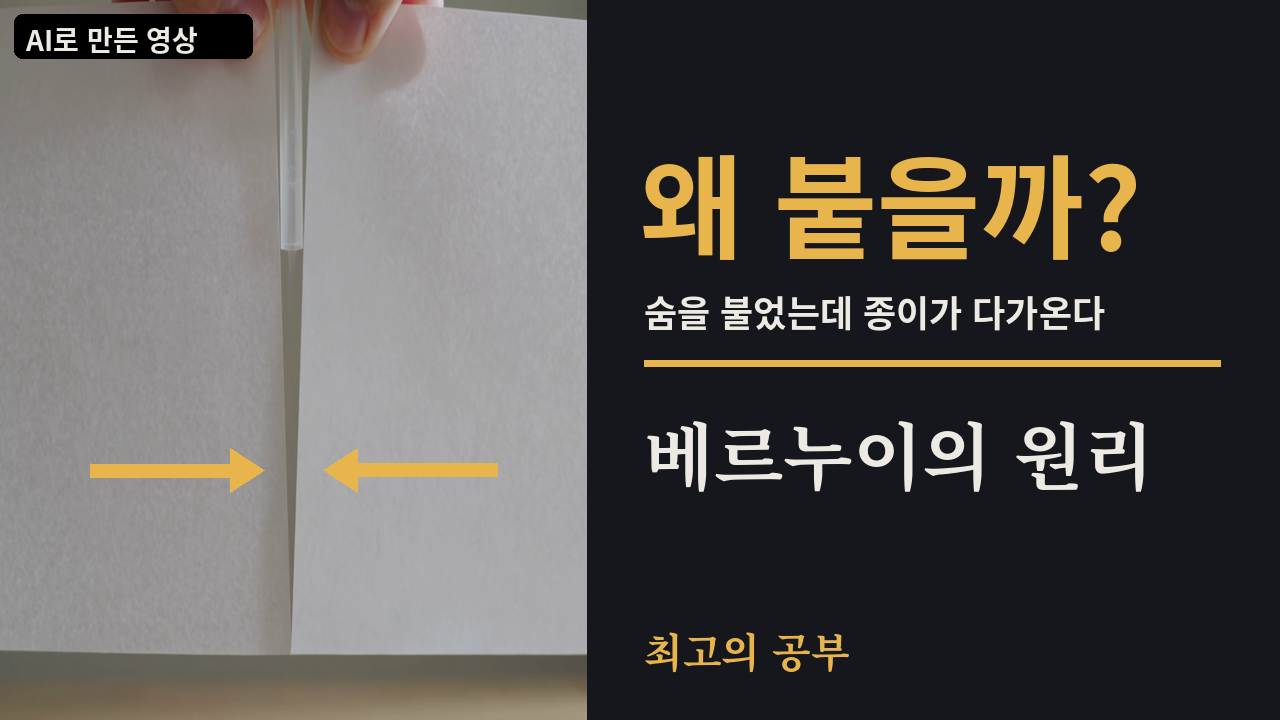
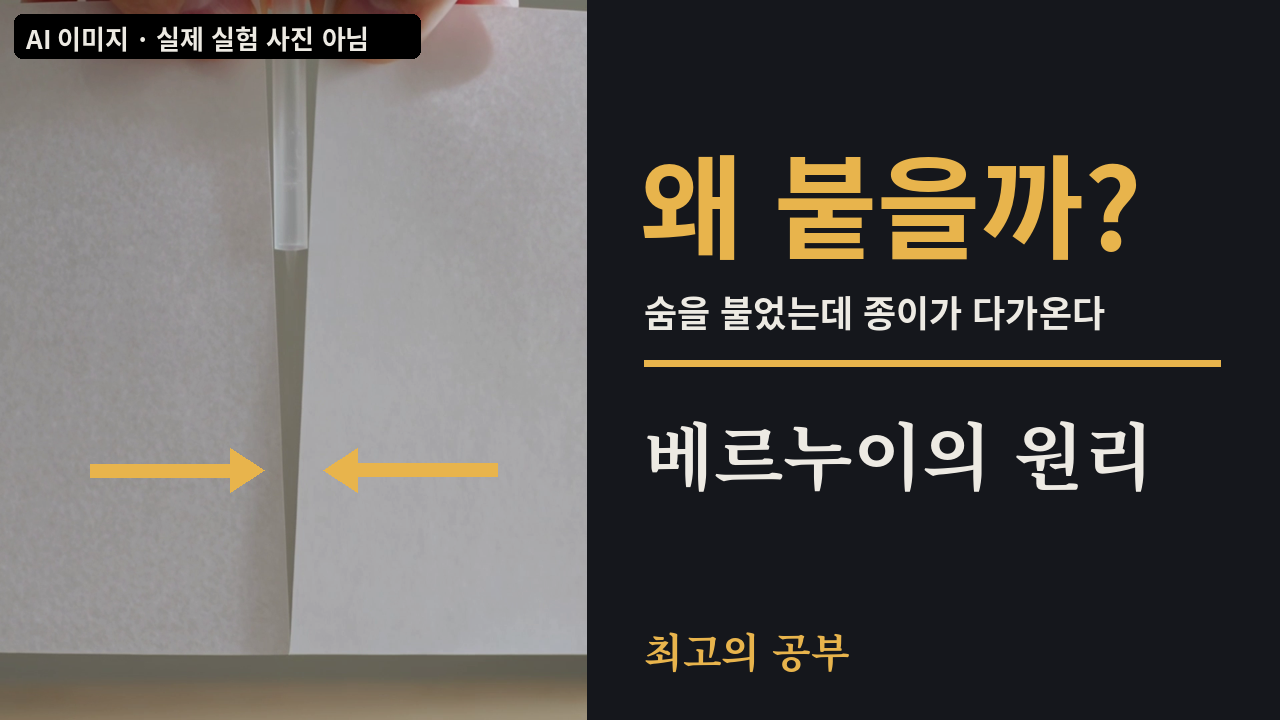
베르누이: 법무 수정 확인 후속 (구성표 5·8·13 설명, sources watermark, 썸네일 비율·표시 문구), DB 승인대기 기록
Claude-Session: https://claude.ai/code/session_016k71QahVh1EEyYy3nrCXw2

Changed region(s): [[0.0312, 0.0, 0.4688, 0.6722], [0.0, 0.8861, 0.0625, 0.9167]]

diff --git a/episodes/2026-10-29_bernoulli-principle/thumbnail.py b/episodes/2026-10-29_bernoulli-principle/thumbnail.py
@@ -18,7 +18,7 @@ GOLD, INK, BG_COLOR = "#E8B44C", "#EDEAE3", "#15171C"
 subprocess.run(["ffmpeg", "-v", "error", "-y", "-ss", "7.0", "-i", str(EP / "assets/media/paper_sheets_blow.mp4"),
                 "-frames:v", "1", str(BG)], check=True)
 
-photo = Image.open(BG).convert("RGB").crop((300, 0, 1620, 1080)).resize((587, 480 + 240))
+photo = Image.open(BG).convert("RGB").crop((520, 0, 1400, 1080)).resize((587, 720))
 photo = ImageEnhance.Brightness(photo).enhance(0.85)
 im = Image.new("RGB", (1280, 720), BG_COLOR)
 im.paste(photo, (0, 0))
@@ -28,8 +28,8 @@ for x0, x1 in ((90, 230), (497, 357)):
     d.line((x0, 470, x1, 470), fill=GOLD, width=14)
     tip = 1 if x1 > x0 else -1
     d.polygon([(x1 + tip * 34, 470), (x1, 448), (x1, 492)], fill=GOLD)
-d.rounded_rectangle((14, 14, 252, 58), radius=8, fill=(0, 0, 0))
-d.text((26, 18), "AI로 만든 영상", font=ImageFont.truetype(SANS, 28, index=KR), fill=INK)
+d.rounded_rectangle((14, 14, 420, 58), radius=8, fill=(0, 0, 0))
+d.text((26, 18), "AI 이미지 · 실제 실험 사진 아님", font=ImageFont.truetype(SANS, 26, index=KR), fill=INK)
 
 d.text((640, 120), "왜 붙을까?", font=ImageFont.truetype(SANS, 112, index=KR), fill=GOLD)
 d.text((644, 285), "숨을 불었는데 종이가 다가온다", font=ImageFont.truetype(SANS, 36, index=KR), fill=INK)

diff --git a/scripts/fetch_media.py b/scripts/fetch_media.py
@@ -118,6 +118,7 @@ def main():
                                 "job_id": m.get("job_id"), "url": m.get("url"), "service": m.get("service"),
                                 "plan": m.get("plan"), "generated_at": m.get("generated_at"),
                                 "physics_check": m.get("physics_check"),
+                                "watermark": m.get("watermark"),
                                 "author": "최고의 공부 (AI 도구 사용)", "license": "생성 서비스 약관 (법무팀 확인)", "ai": True})
                 continue
             if mid in old and (ep / old[mid].get("file", "-")).exists():

diff --git a/episodes/2026-10-29_bernoulli-principle/legal_review.md b/episodes/2026-10-29_bernoulli-principle/legal_review.md
@@ -209,3 +209,39 @@
 - Higgsfield 가격 안내 https://higgsfield.ai/blog/higgsfield-pricing-explained , 제3자 정리 https://creatify.ai/blog/higgsfield-pricing-(2026)-plans-and-what-you-ll-actually-pay
 - ElevenLabs 공지 기간 https://help.elevenlabs.io/hc/en-us/articles/33533163659921-What-is-a-notice-period , 보이스 공유 https://elevenlabs.io/docs/voices/voice-library/sharing , Voice Library 부속 약관 https://elevenlabs.io/vla
 - 틱톡·메타 AI 표시(2차 자료) https://www.socialmediatoday.com/news/tiktok-officially-launches-new-in-stream-labels-for-ai-generated-content/694154/ , https://www.cinerads.com/blog/ai-ad-disclosure-requirements , https://openart.ai/blog/creators-guide-ai-disclosure-2026/
+
+### 수정 확인
+최종 판정: **조건부 통과**
+
+영상 파일(`final.mp4`, `shorts_vertical.mp4`, `shorts_square.mp4`)과 썸네일은 **더 고칠 것 없이 그대로 써도 된다.** 남은 조건은 업로드 전에 사용자가 확인해야 하는 권리 사항 3건(아래 2-3)이다. 확인 결과 문제가 없으면 법무팀 재검토 없이 사용자 승인 단계로 넘어간다. 기록 정리 2건(하)은 업로드를 막지 않는다.
+
+확인 자료: `/tmp/.../scratchpad/frames/fix/` 의 main.png(본편 장면 2·7·13), m7end.png(장면 7 끝), s07.png(S07 투명 레이어 3시점), shorts.png(세로 2장·정사각형 2장), m13blur.png(장면 13 동체 확대), `output/thumbnail.png`, `thumbnail.py`, `assets/sources.json`, `03_storyboard.json`, `02_script.md`, `assets/audio/voice_audition/`, `output/` 파일 목록.
+
+| # | 결과 | 확인 내용 |
+|---|---|---|
+| 2-1 | **해결** | 장면 7에 "닫힌 관(벤투리관) 그림" 라벨이 붙은 넓다-좁다-넓은 수평 관, 유리관 2개가 있다. 넓은 곳 물기둥이 높고 좁은 곳 물기둥이 낮다(방향 맞음). '쑥' 흰 선은 좁은 곳 유리관 안의 물기둥 윗면에만 있고, 개울 수면과는 분리되었다. 지갑은 각 유리관 옆에 있고 넓은 곳(파랑 큼·주황 작음)과 좁은 곳(파랑 작음·주황 큼)의 회색(높이)이 같으며, 두 지갑의 총액선이 같은 높이다(m7end). 배경 개울은 dim 0.6으로 분위기 배경에 머문다. 나레이션 "그 위 물기둥은 쑥 낮아집니다"와 화면이 이제 맞는다. 권장(하): s07.png 세 번째 시점에서 두 지갑을 잇는 점선이 비스듬히 그려진다(지갑이 서로 다른 높이에서 등장하는 순간). 끝 화면(m7end)에서는 수평이므로 사실 오류는 아니지만, 다음 편부터 연결선은 두 지갑이 제자리에 놓인 뒤 그린다 |
+| 2-2 | **해결** | 세로형: 헤드라인 아래 두 줄 "실사 화면은 AI로 만든 영상입니다 / 실제 실험·역사 촬영 아님", 정사각형: 자막 아래 한 줄 "AI로 만든 영상 · 실제 실험·역사 촬영 아님", 반투명 바탕, 4개 프레임 모두에서 보인다. 본편에서 내려온 장면별 배지도 그대로다. 권장(하): 세로형 문구는 자막보다 작아 보인다. 위아래 여백이 넉넉하므로 다음 숏폼부터 40~44px로 키운다 |
+| 2-3 | **일부 해결, 사용자 확인 남음** | `sources.json` narration 항목에 plan, plan_since, generated_at, voice_id, voice, model, flow_id, notice_period, beta가 생겼다(미확인 값은 "사용자 확인 필요"로 표시, 적절함). `output/voice_audition.mp3`는 `output/`에서 빠졌고 `assets/audio/voice_audition/comparison.mp3`로 옮겨졌다(`output/`에는 final.mp4, 숏폼 2개, subtitles.srt만 남음). **그러나 `sources.json`에 `"watermark"` 항목이 하나도 없다**(검색 결과 0건, 구성표 `03_storyboard.json`에만 있음). 제작팀 보고와 다르다 → 아래 남은 일 ② |
+| 2-4 | **해결** | 이름 카드 "1700~1782 · 바젤에서 활동"(main.png 왼쪽) |
+| 2-5 | **해결 / 유통팀 몫 남음** | (가) 숏폼 장면 5 시작에 "다니엘 베르누이 / 1700~1782 · 『유체역학』(1738)" 카드. 연도와 책 이름이 리서치와 일치한다. (나) 장면 8 보충 메모는 숏폼 설명란으로 옮기기로 했다 → 유통팀이 숏폼 설명란에 "정확히는 종이의 휘어짐, 공기가 종이 면을 따라 흐르는 효과도 함께 작용합니다."를 넣는다 |
+| 2-6 | **일부 해결** | `media_policy`는 실제와 맞게 고쳐졌다(11클립 생성·8클립 사용·탈락 3개, 장면별 배지, 동체 글자 blur). **그러나 장면 5·8·13 description과 `02_script.md`의 같은 부분은 옛 문구 그대로다**: 장면 5 "압력 = 물이 미는 힘"·넓은 쪽/좁은 쪽 비교(구성표 268행, 대본 34행), 장면 8 "빠르다 → 덜 민다"·"느리다 → 그대로 민다"(구성표 346행, 대본 53행), 장면 13 카드 "빨리 달리는 공기는, 덜 민다"(구성표 478행, 대본 90행). 영상은 이미 바른 문구라 공개물 문제는 아니고 기록 문제다 → 아래 남은 일 ③ |
+| 2-7 | **해결** | 장면 13 동체 글자 자리가 흐림 처리되어 글자를 읽을 수 없다(m13blur, main.png 오른쪽). 흐림 상자의 경계가 확대 화면에서 조금 보이지만 본편 크기에서는 눈에 띄지 않는다. 장면 4 dim 0.55 반영(제작팀 보고 기준, 프레임 미확인). 장면 5 비네트는 하지 않았으나 선택 사항이므로 그대로 둔다 |
+| 길이 | 확인 | 본편 168.4초, 숏폼 58.4초로 바뀌지 않았다는 제작팀 보고. 나레이션·자막은 바뀌지 않았으므로 CER 0% 결과가 그대로 유효하다 |
+
+#### 썸네일 (`output/thumbnail.png`, 1280×720) 판정: **통과**
+- **내용 일치(낚시성 여부):** "왜 붙을까?", "숨을 불었는데 종이가 다가온다", "베르누이의 원리"는 장면 1·8의 내용 그대로다. 양력을 베르누이 하나로 단정하는 문구나 과장 표현이 없다. 통과.
+- **사실관계:** 종이 아래쪽이 안쪽으로 모인 프레임과 안쪽을 가리키는 화살표 두 개는 실제 현상 방향과 맞다(1차 지적 3의 오개념 라벨도 없음). 통과.
+- **AI 표시:** 왼쪽 위 "AI로 만든 영상"(검은 바탕, 28pt)이 있다. 1차 유통팀 전달 사항("AI 장면을 쓰면 작은 AI 표시")을 충족한다. 권장(하): 썸네일은 정지 이미지이고 실제 실험 사진처럼 보이므로 "AI 이미지 · 실제 실험 사진 아님"으로 바꾸면 본편 배지(장면 1 "실제 실험 촬영 아님")와 더 잘 맞는다. 바꾸지 않아도 통과다.
+- **권리:** 배경은 우리가 Higgsfield로 만든 `paper_sheets_blow` 클립의 한 프레임이고, 글꼴은 Noto Sans/Serif CJK(SIL OFL)다. 제3자 사진·로고·실존 인물 얼굴이 없다(손가락 끝만 보임). Higgsfield 상업 이용 조건은 영상과 같이 2-3 ①에 묶인다.
+- 비법무 참고(제작팀): `thumbnail.py`가 1320×1080 영역을 587×720으로 줄이면서 가로가 약 2/3로 눌린다. 종이라 티가 덜 나지만 비율을 맞추려면 자르는 폭을 880px 안팎으로 바꾼다.
+
+#### 업로드 전에 남은 일
+1. **(사용자, 중) 권리 확인 3건** — 2-3의 ①②③ 그대로: ① 2026-10-29 생성 당시 Higgsfield Starter 유료 플랜이 활성이었는지, ② ElevenLabs 플랜 이름·유료 전환 시각과 나레이션 13개 생성 시각(전환 이후인지), ③ "Gun Woong - Deep & Trustworthy" 보이스 카드의 공지 기간·상업 이용 제한 표시·실존 인물 흉내 여부. 확인값은 제작팀이 `sources.json` narration 항목의 "사용자 확인 필요" 자리에 채운다. eleven_v4가 Beta가 아니면 `"beta": false`로 고친다.
+2. **(제작팀, 하) `sources.json` AI 클립 8개 항목에 `"watermark": false` 추가.** 이번 보고와 달리 실제 파일에는 빠져 있다.
+3. **(기획팀, 하) 구성표 장면 5·8·13 description을 `visuals.py`에 맞게 고치고 `02_script.md` 다시 생성.** 장면 5: 라벨 "압력 = 물이 벽을 미는 세기", 물통 + 굵기 일정한 관 + 유리관 하나 + 물통 수면 기준선. 장면 8: "좁은 틈에서 빨라진 공기 → 덜 민다", "바깥: 보통 공기 압력(대기압) 그대로", 보충 메모 문구. 장면 13: 카드 "빨라진 공기는, 덜 민다", 원형 창은 선 그림 + "실제 실험 촬영 아님". 나레이션은 바꾸지 않는다.
+
+#### 유통팀 전달 사항 (변경분)
+- 앞의 2차 "유통팀 전달 사항"은 그대로 유효하다(유튜브 본편·Shorts 변경·합성 콘텐츠 "예", 틱톡 "AI 생성 콘텐츠" 켬, 인스타그램 "AI 정보" 켬, 아동용 "아니요", 설명란 출처 문구).
+- 숏폼 설명란에 장면 8 보충 메모 한 줄을 넣는다(2-5 (나)).
+- 썸네일 `output/thumbnail.png`는 그대로 써도 된다.
+- `assets/audio/voice_audition/`의 파일(comparison.mp3 포함)은 어디에도 올리지 않는다.

diff --git a/episodes/2026-10-29_bernoulli-principle/02_script.md b/episodes/2026-10-29_bernoulli-principle/02_script.md
@@ -31,7 +31,7 @@
 
 ## 개념의 탄생
 
-**[장면 5]** `[화면: 구간 제목 '개념의 탄생'. 18세기 실험대 재현 영상. 첫 문장 '압력' 옆에 작은 라벨 '압력 = 물이 미는 힘'. 두 번째 문장에서 관 벽의 구멍과 세운 유리관을 흰 원으로 강조. 세 번째 문장에서 유리관 속 물기둥에 위로 향하는 파란 화살표와 눈금선이 겹쳐진다. 네 번째 문장에서 넓은 쪽(느림, 짧은 흐름 화살표)과 좁은 쪽(빠름, 긴 흐름 화살표)을 나란히 표시하고, 좁은 쪽 물기둥 높이에 빨간 '↓'와 '?' 표시. 'AI로 만든 재현 영상']`
+**[장면 5]** `[화면: 구간 제목 '개념의 탄생'. 18세기 실험대 재현 영상(dim 0.5) 위에 투시 도식: 왼쪽 위 라벨 '압력 = 물이 벽을 미는 세기'. 두 번째 문장: 물통 + 굵기가 일정한 관 + 유리관 하나, 관 벽 구멍을 흰 원으로 강조. 세 번째 문장: 유리관 물기둥이 차오르고 위로 향하는 파란 화살표. 네 번째 문장: '물통 수면' 점선과 흐름 화살표, 물기둥이 수면보다 낮게 내려가고 빨간 '↓ ?'. 'AI로 만든 재현 영상']`
 `[강조: 흐르면 = 물기둥이 낮다?]`
 > 다니엘은 흐르는 물의 압력을 재고 싶었습니다.
 > 관 벽에 구멍을 뚫고, 가는 유리관을 세웠죠.
@@ -50,7 +50,7 @@
 > 물이 좁은 곳에서 빨라지면, 그 위 물기둥은 쑥 낮아집니다.
 > 빨라진 만큼, 미는 주머니에서 꺼내 쓴 겁니다.
 
-**[장면 8]** `[화면: '아하' 장면 2: 첫 장면의 종이 영상으로 돌아온다(같은 클립, 이번엔 정지 직전 구간을 0.5배 슬로). 종이 사이 좁은 틈에 주황 흐름 화살표(빠름, 길다)와 작은 파란 압력 화살표(약함), 종이 바깥에는 굵은 파란 압력 화살표가 양쪽에서 종이를 안쪽으로 민다. 틈 안쪽 라벨 '빠르다 → 덜 민다', 바깥 라벨 '느리다 → 그대로 민다'. 세 번째 문장에서 화면 중앙에 '베르누이의 원리' 타이틀이 크게 뜨고 그 아래 '흐름이 빨라지면 압력이 낮아진다'. 'AI로 만든 영상']`
+**[장면 8]** `[화면: '아하' 장면 2: 첫 장면의 종이 영상(dim 0.45). 종이 두 장 도식 사이 좁은 틈에 주황 흐름 화살표와 약한 파란 압력 화살표, 바깥에서 굵은 파란 화살표가 안쪽으로 민다. 라벨 '좁은 틈에서 빨라진 공기 → 덜 민다', '바깥: 보통 공기 압력(대기압) 그대로', 작은 보충 메모 '정확히는 종이의 휘어짐, 공기가 종이 면을 따라 흐르는 효과도 함께 작용'. 세 번째 문장: '베르누이의 원리 / 흐름이 빨라지면, 압력이 낮아진다' 타이틀. 'AI로 만든 영상 · 실제 실험 촬영 아님']`
 `[강조: 베르누이의 원리: 빨라지면, 압력이 낮아진다]`
 > 종이 사이 공기도 같습니다.
 > 좁은 틈을 빨리 지나느라 덜 밀고, 바깥 공기가 종이를 안으로 밀어붙인 거죠.
@@ -87,7 +87,7 @@
 
 ## 오늘의 한 줄
 
-**[장면 13]** `[화면: 여객기 이륙 실사(AI) 영상. 첫 문장: 오늘의 한 줄 카드 '빨리 달리는 공기는, 덜 민다'. 두 번째 문장: 바퀴가 활주로를 떠나는 순간에 맞춰 화면 오른쪽 위에 장면 1의 종이 두 장이 작은 원형 창으로 겹쳐 보였다가 사라진다(같은 원리 연결). 세 번째 문장: 다음 편 예고 카드 '연속 방정식: 좁은 곳에서 물은 왜 빨라질까?'. 마지막에 채널 로고. 'AI로 만든 영상']`
+**[장면 13]** `[화면: 여객기 이륙 AI 영상(0~3.9초만 감속 사용 후 마지막 프레임 유지, 동체의 뜻 없는 글자 흐림). 첫 문장: '오늘의 한 줄' 카드 '빨라진 공기는, 덜 민다'. 두 번째 문장: 작은 원형 창에 종이 두 장('실제 실험 촬영 아님'). 세 번째 문장: 다음 편 예고 카드 '연속 방정식: 좁은 곳에서 물은 왜 빨라질까?'. 마지막에 '최고의 공부 / 하루에 개념 하나'. 'AI로 만든 영상']`
 `[강조: 빨라진 공기는, 덜 민다]`
 > 오늘의 한 줄. 빨라진 공기는, 덜 밉니다.
 > 여러분 입김이 종이를 붙인 그 원리가, 오늘도 하늘에서 여객기를 받칩니다.
